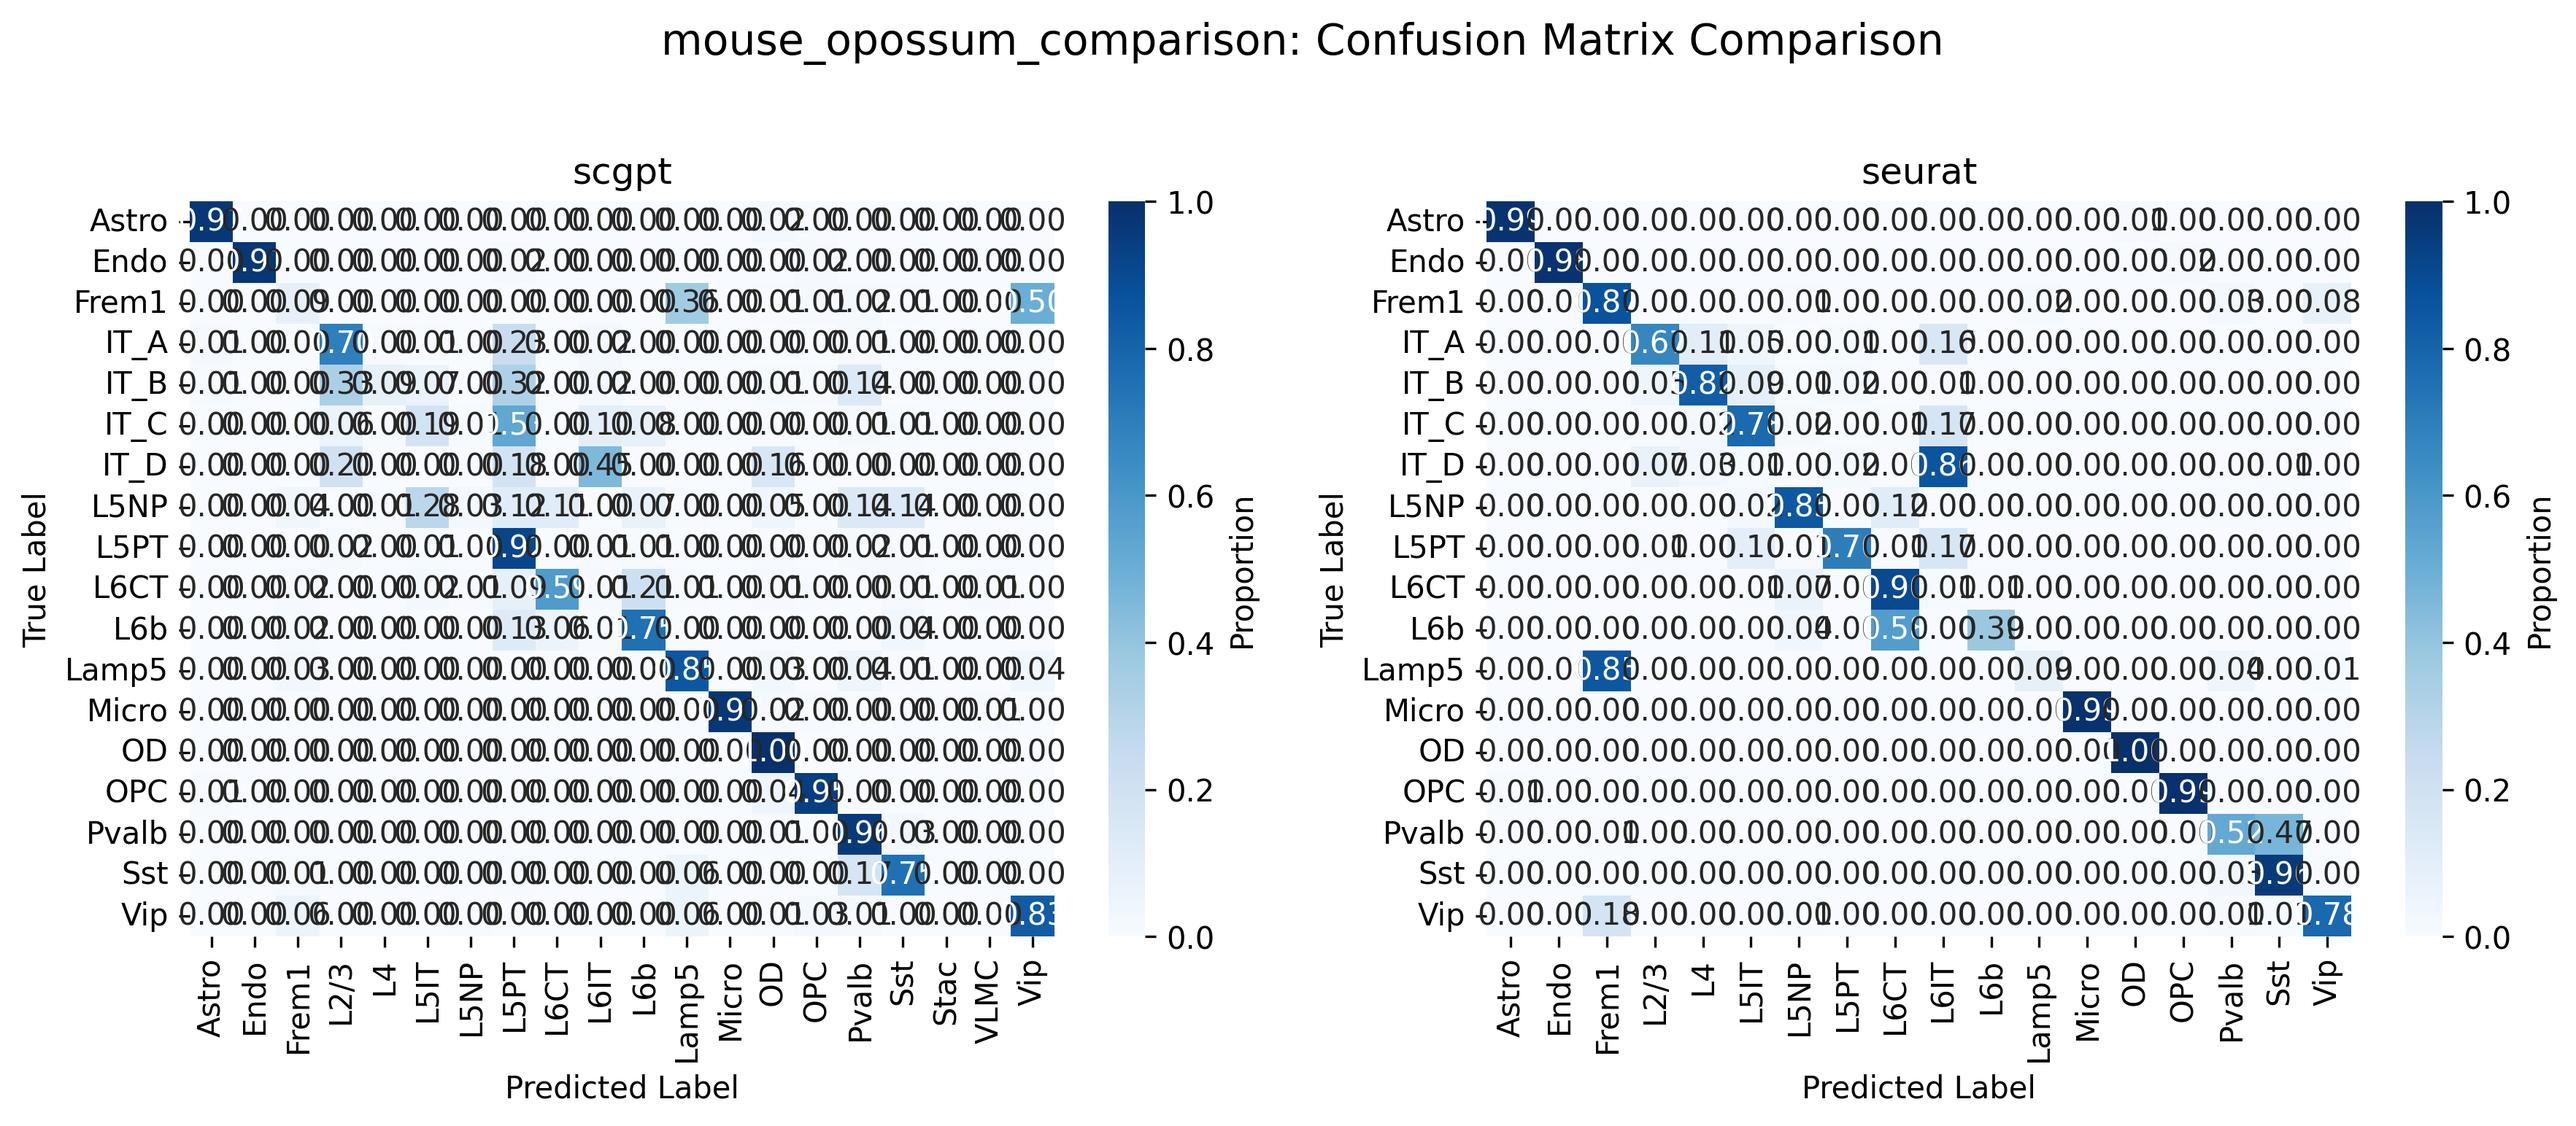
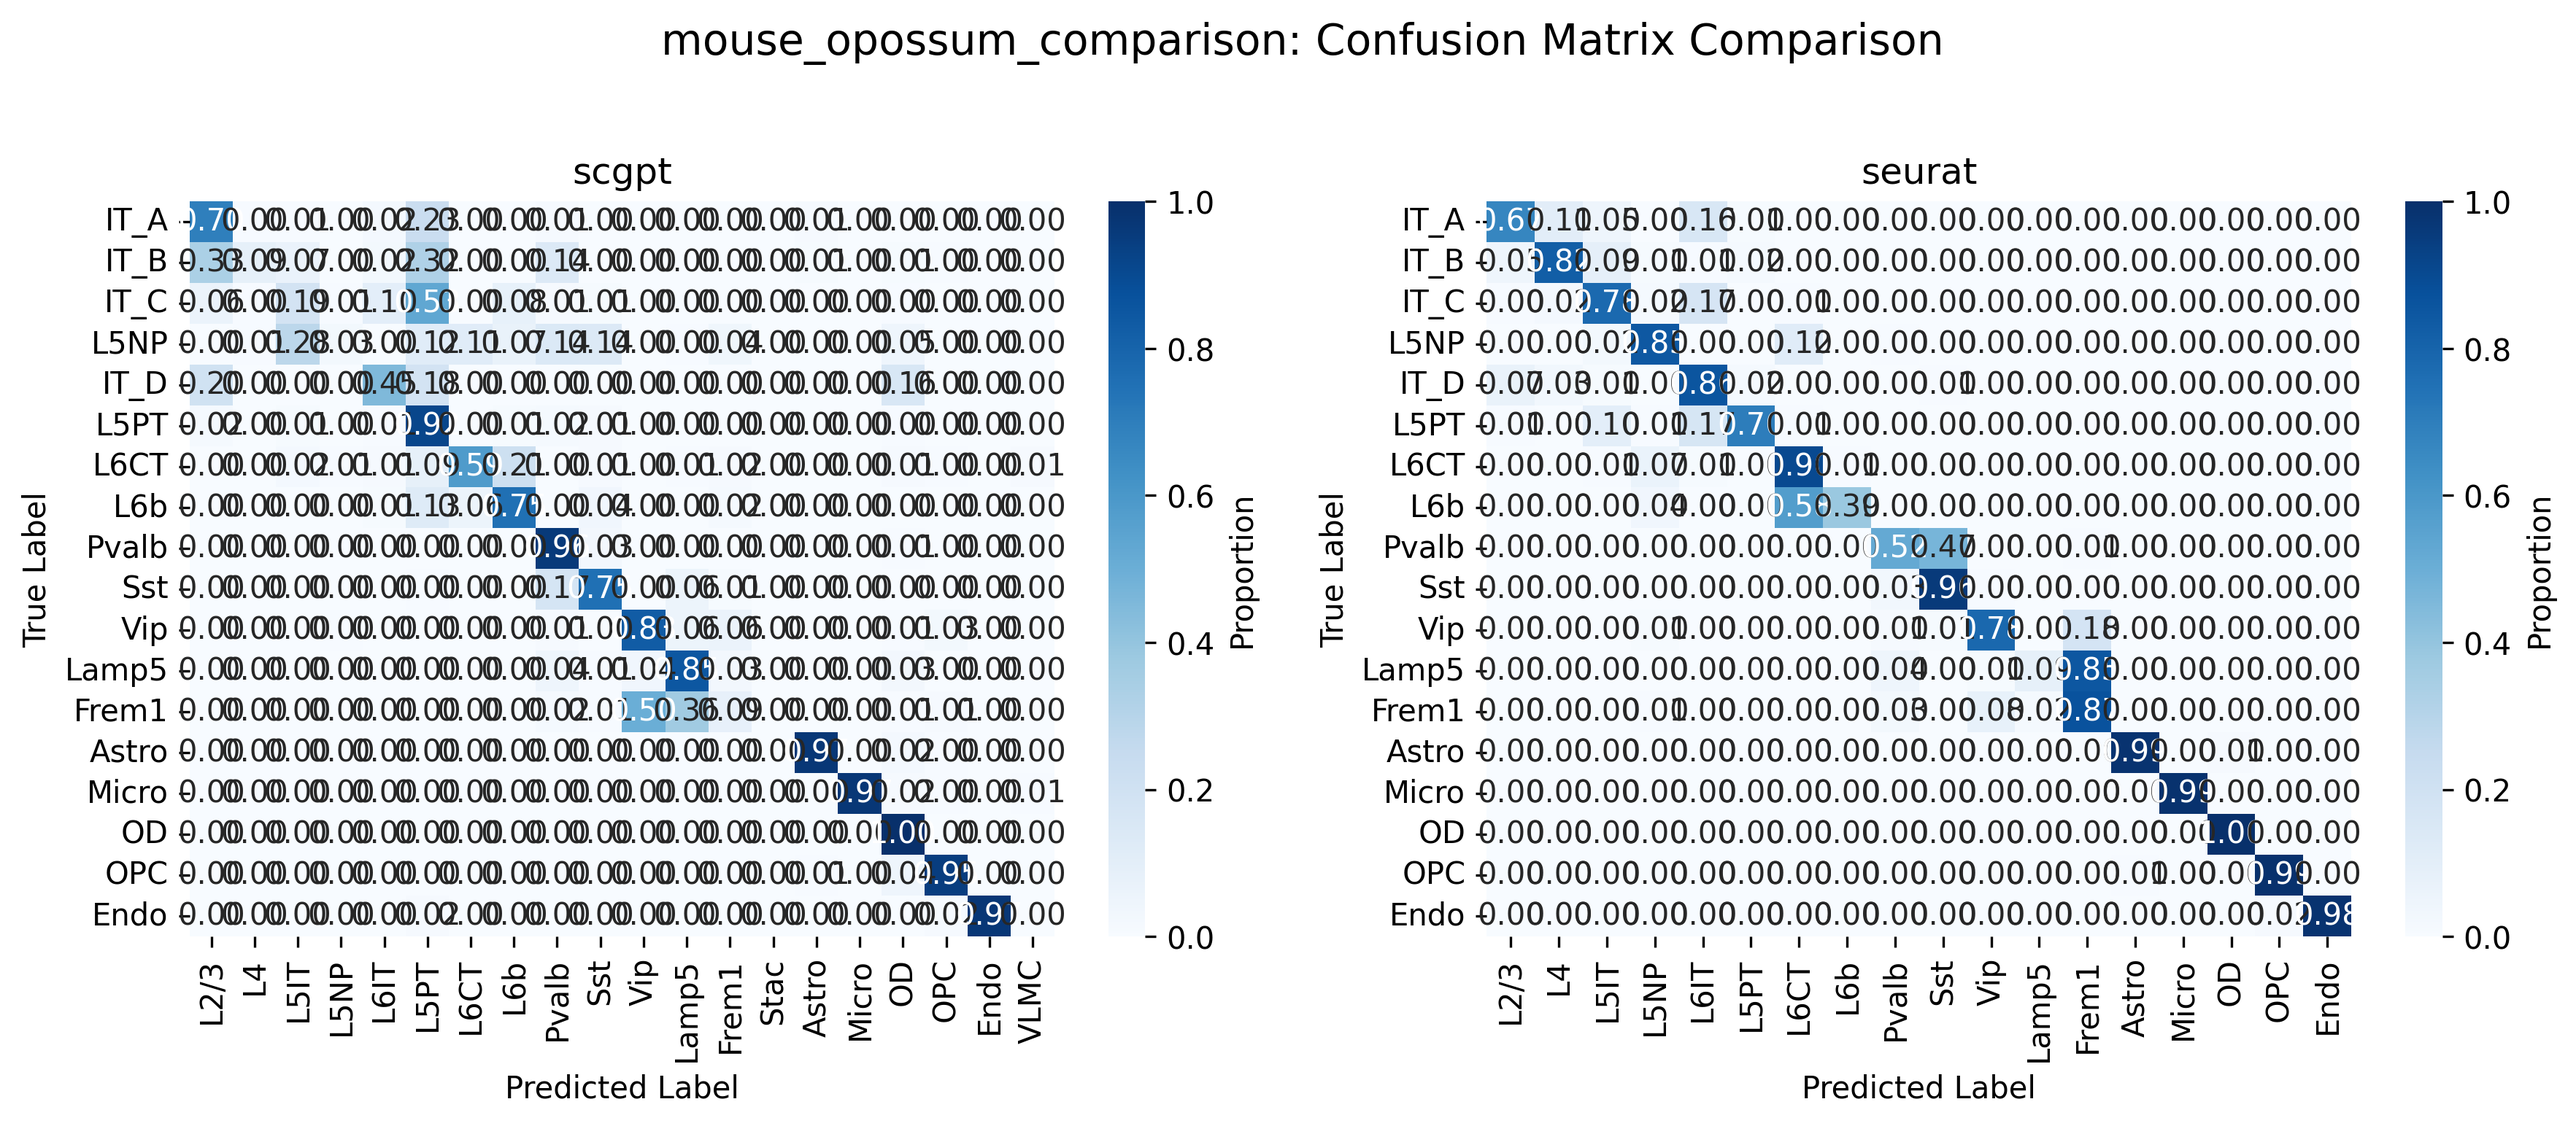
Fix confusion matrix parameter indexing in results dict

diff --git a/src/analysis/comparison.py b/src/analysis/comparison.py
@@ -239,11 +239,10 @@ def plot_side_by_side_confusion_matrices(
         )
 
         # Apply custom ordering if specified
-        if 'row_order' in results['config']['output']:
+        cm_config = results['config']['output']['confusion_matrix']
+        if 'row_order' in cm_config:
             # Filter to only include labels that exist in the data
-            row_order = results['config']['output']['row_order']
-            print(row_order)
-            print(cm_df.index)
+            row_order = cm_config['row_order']
             row_order_filtered = [r for r in row_order if r in cm_df.index]
             if row_order_filtered:
                 cm_df = cm_df.reindex(row_order_filtered)
@@ -251,9 +250,9 @@ def plot_side_by_side_confusion_matrices(
             # Default: alphabetical
             cm_df = cm_df.sort_index()
         
-        if 'col_order' in results['config']['output']:
+        if 'col_order' in cm_config:
             # Filter to only include labels that exist in the data
-            col_order = results['config']['output']['col_order']
+            col_order = cm_config['col_order']
             col_order_filtered = [c for c in col_order if c in cm_df.columns]
             if col_order_filtered:
                 cm_df = cm_df[col_order_filtered]
